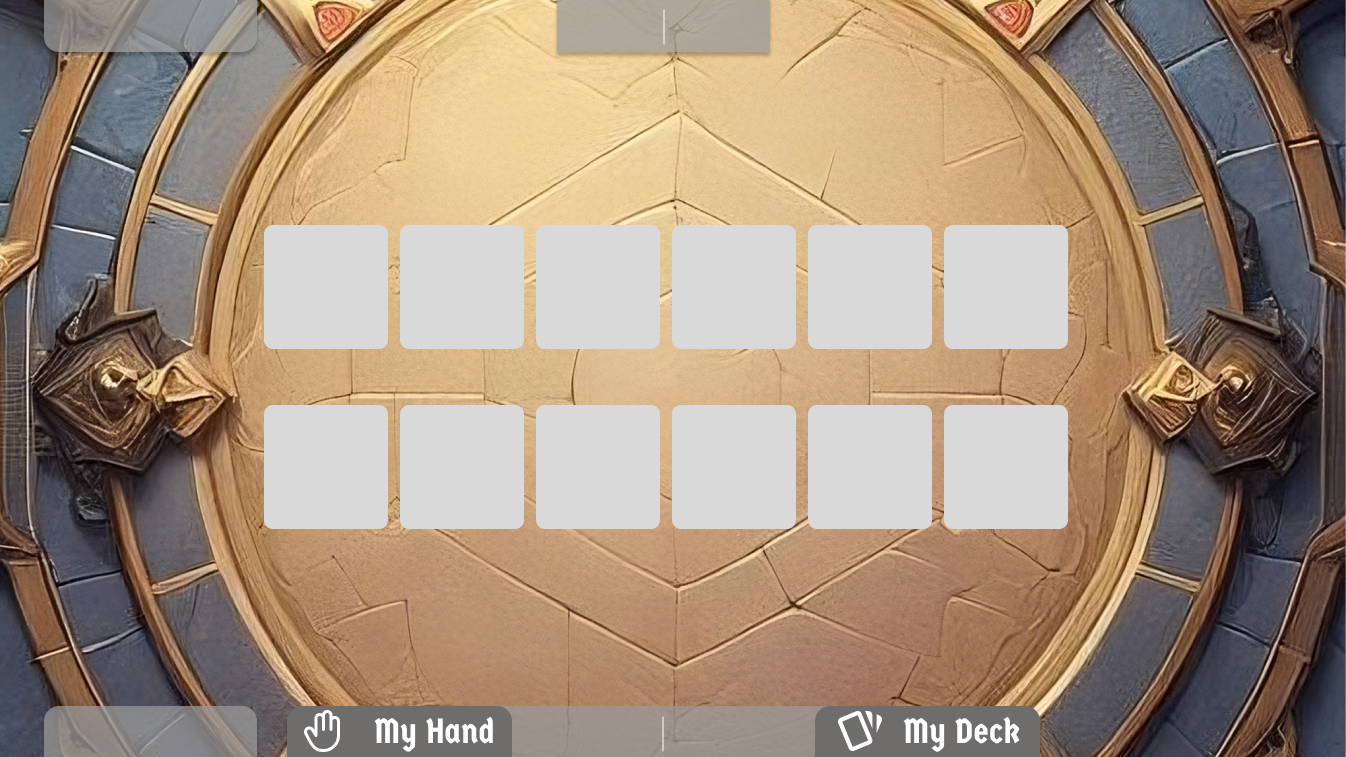
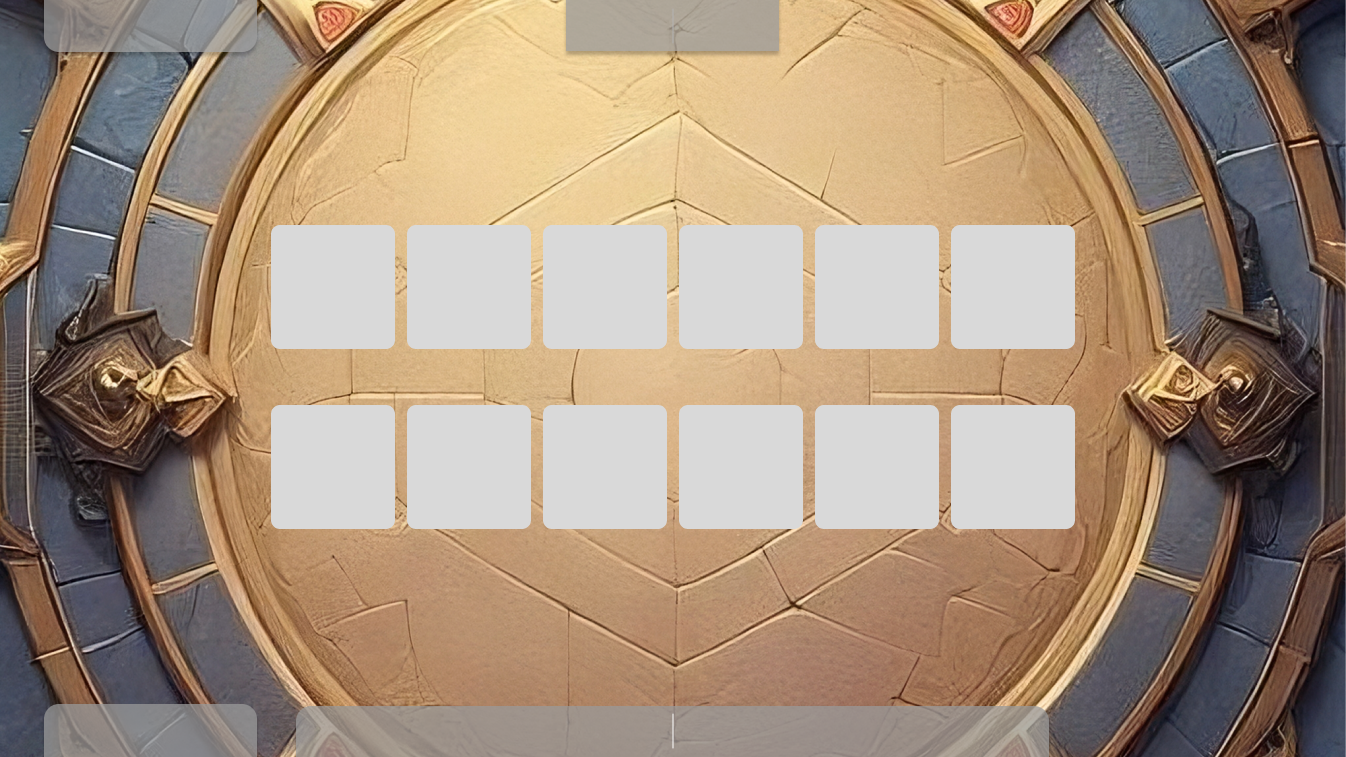
Fixed game_menu alignement

diff --git a/ChaosCardGame/UserInterface/MenuStates/game_menu_ui.py b/ChaosCardGame/UserInterface/MenuStates/game_menu_ui.py
@@ -35,26 +35,26 @@ class GameMenu(State):
         self.bg_game_menu_rect = self.bg_game_menu_image.get_rect(topleft=(0,0))
 
         self.hand_button = ImageButton(self.screen, True, image=alpha_converter(
-            MenuButtons.hand_button_image), position_type="topleft", position=(287, 706))
+            MenuButtons.hand_button_image), position_type="topleft", position=(296, 706))
         self.deck_button = ImageButton(self.screen, True, image=alpha_converter(
-            MenuButtons.deck_button_image), position_type="topleft", position=(815, 706))
+            MenuButtons.deck_button_image), position_type="topleft", position=(824, 706))
 
-        self.player_health_bar = DualBarVerti(self.screen, position=(557, 706), position_type="topleft", width=96, height=52,
+        self.player_health_bar = DualBarVerti(self.screen, position=(566, 706), position_type="topleft", width=96, height=52,
                                               color_bg=pygame.color.Color(220, 220, 220), color_fg=pygame.color.Color(255, 122, 122), max_value=600)
-        self.player_energy_bar = DualBarVerti(self.screen, position=(674, 706), position_type="topleft", width=96, height=52,
+        self.player_energy_bar = DualBarVerti(self.screen, position=(683, 706), position_type="topleft", width=96, height=52,
                                               color_bg=pygame.color.Color(220, 220, 220), color_fg=pygame.color.Color(122, 215, 255), max_value=self.player_max_energy)
-        self.enemy_health_bar = DualBarVerti(self.screen, position=(557, 0), position_type="topleft", width=96, height=52,
+        self.enemy_health_bar = DualBarVerti(self.screen, position=(566, 0), position_type="topleft", width=96, height=52,
                                              color_bg=pygame.color.Color(220, 220, 220), color_fg=pygame.color.Color(255, 122, 122), max_value=600)
-        self.enemy_energy_bar = DualBarVerti(self.screen, position=(674, 0), position_type="topleft", width=96, height=52,
+        self.enemy_energy_bar = DualBarVerti(self.screen, position=(683, 0), position_type="topleft", width=96, height=52,
                                              color_bg=pygame.color.Color(220, 220, 220), color_fg=pygame.color.Color(122, 215, 255), max_value=self.enemy_max_energy)
 
-        self.player_health_bar_text = TextBox(self.screen, (557, 706), 96, 52, pygame.font.Font(
+        self.player_health_bar_text = TextBox(self.screen, (566, 706), 96, 52, pygame.font.Font(
             self.ger_font_path, 30), (101, 101, 101), position_type="topleft", text_center="center", text="")
-        self.player_energy_bar_text = TextBox(self.screen, (674, 706), 96, 52, pygame.font.Font(
+        self.player_energy_bar_text = TextBox(self.screen, (683, 706), 96, 52, pygame.font.Font(
             self.ger_font_path, 30), (101, 101, 101), position_type="topleft", text_center="center", text="")
-        self.enemy_health_bar_text = TextBox(self.screen, (557, 0), 96, 52, pygame.font.Font(
+        self.enemy_health_bar_text = TextBox(self.screen, (566, 0), 96, 52, pygame.font.Font(
             self.ger_font_path, 30), (101, 101, 101), position_type="topleft", text_center="center", text="")
-        self.enemy_energy_bar_text = TextBox(self.screen, (675, 0), 96, 52, pygame.font.Font(
+        self.enemy_energy_bar_text = TextBox(self.screen, (683, 0), 96, 52, pygame.font.Font(
             self.ger_font_path, 30), (101, 101, 101), position_type="topleft", text_center="center", text="")
 
         self.player_username_text = TextBox(self.screen, (72, 726), 96, 52, pygame.font.Font(
